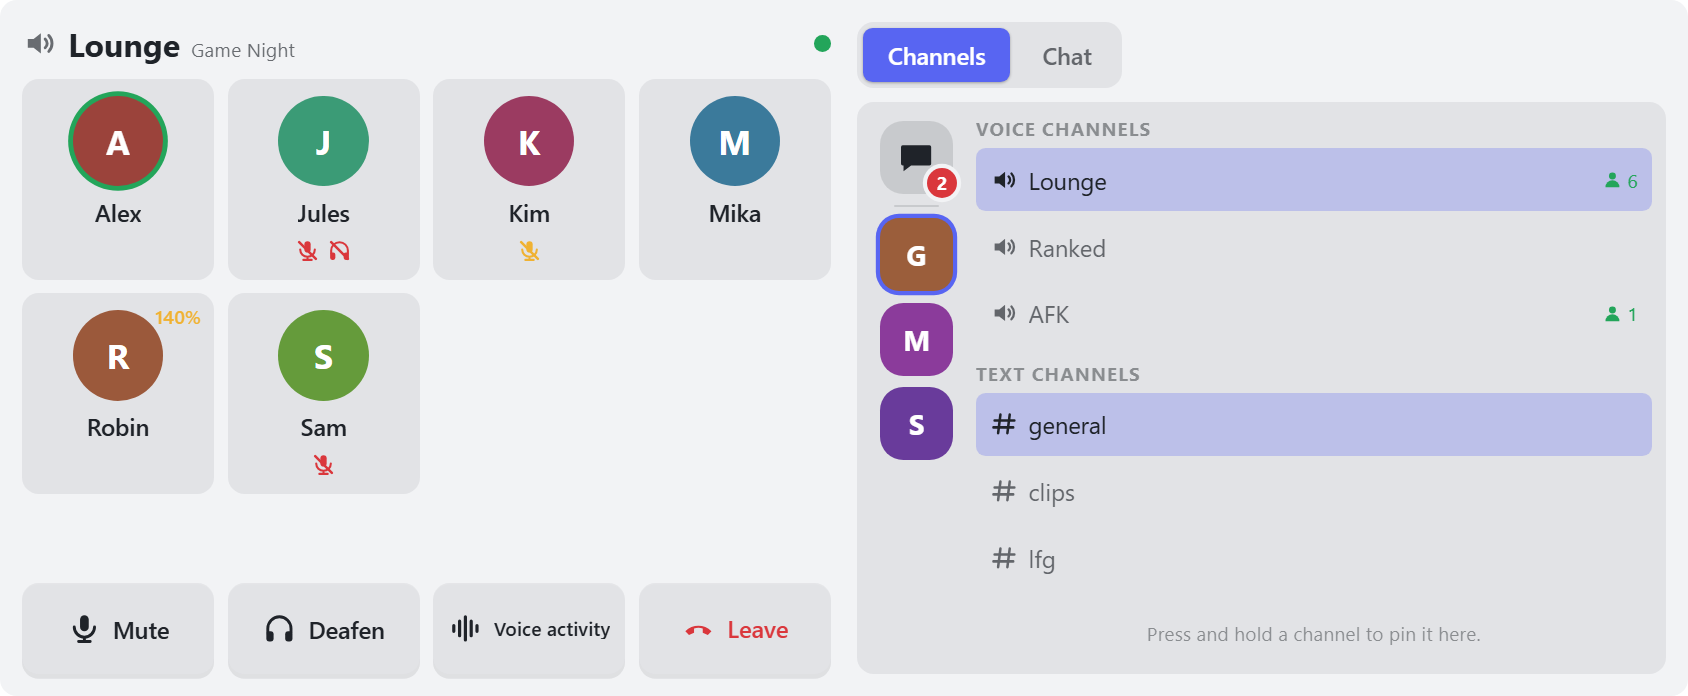
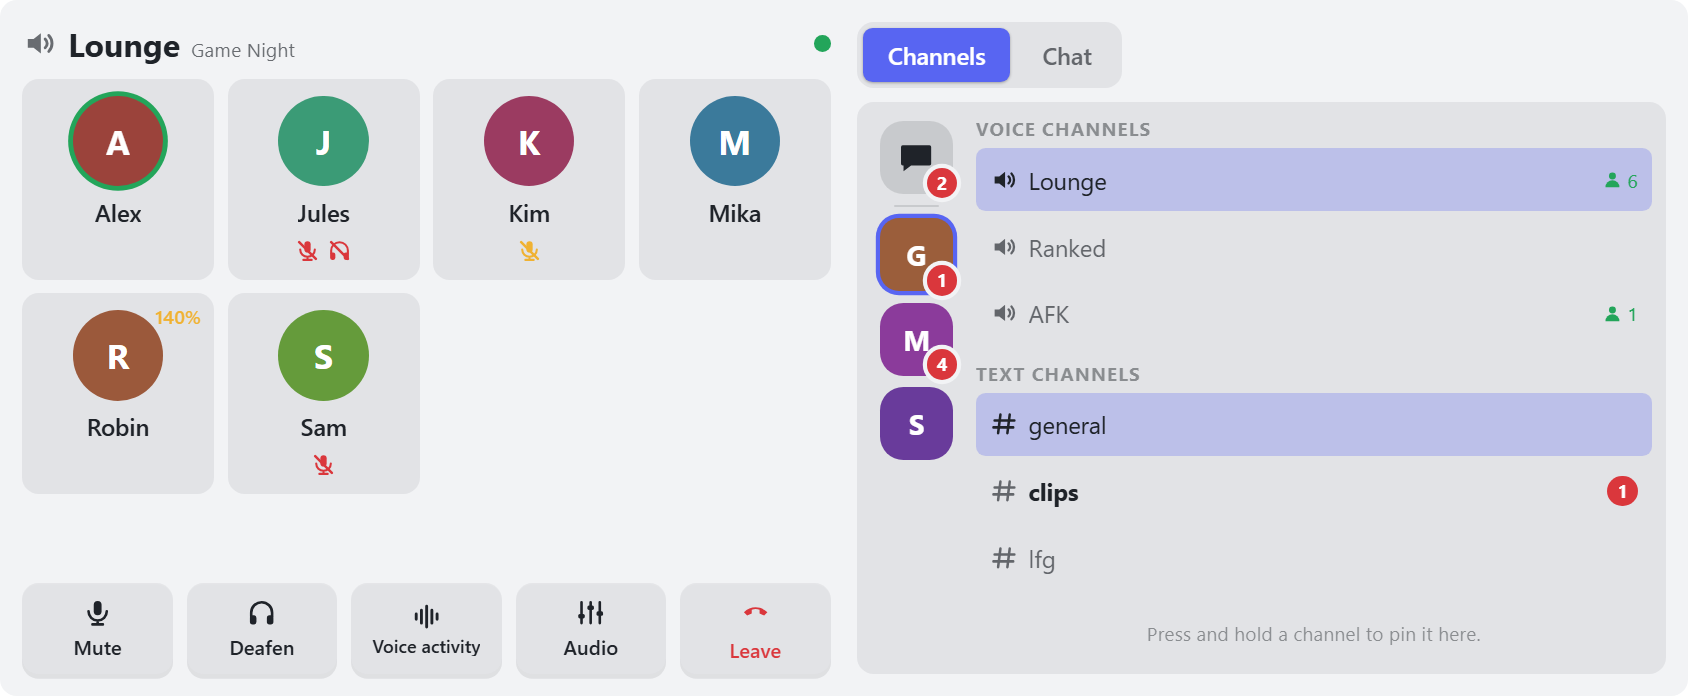
Docs and screenshots for 0.9.4
New screenshots with the Audio button, unread badges and the audio
devices window; README feature table and limits, privacy notes for
server order, unread counts and the page shortcut, protocol in DESIGN.
The screenshot script now prefers headless Chrome.

diff --git a/widget/scripts/app.js b/widget/scripts/app.js
@@ -181,7 +181,10 @@ function applyDemoOptions() {
   applyStyles();
   if (q.get('guild') === 'dms') saveStore({ guildId: '@dms' });
   var popup = q.get('popup');
-  if (popup) {
+  if (popup === 'audio') {
+    if (q.get('side')) AudioUi.side = q.get('side');
+    setTimeout(openAudio, 50);
+  } else if (popup) {
     setTimeout(function () {
       var m = app.data.voice.members.filter(function (x) { return x.name === popup; })[0];
       if (m) openPopup(m.id);

diff --git a/PRIVACY.md b/PRIVACY.md
@@ -24,14 +24,16 @@ Sonst nichts: keine Telemetrie, keine Analyse, keine Absturzberichte, keine Werb
 | Was | Wo | Wie lange |
 |---|---|---|
 | Deine Discord-Anmeldung (Tokens) | `%APPDATA%\VoicedeckEdge\tokens.bin`, mit Windows verschlüsselt (nur für dein Windows-Konto lesbar) | bis „Abmelden und alle Daten löschen“ oder Deinstallation |
-| Client-ID deiner Discord-App, Einstellungen | `%APPDATA%\VoicedeckEdge\settings.json` | bis Löschen/Deinstallation |
+| Client-ID deiner Discord-App, Einstellungen, zuletzt gestartete Version (damit der Hub nach einem Update den Assistenten öffnet) | `%APPDATA%\VoicedeckEdge\settings.json` | bis Löschen/Deinstallation |
 | Gekoppelte Widgets | `%APPDATA%\VoicedeckEdge\pairings.json` – nur ein Prüfwert (Hash), nie der Schlüssel selbst | bis du die Kopplung aufhebst |
 | Technisches Protokoll | `%LOCALAPPDATA%\VoicedeckEdge\logs\` – ohne Namen, IDs, Nachrichten oder Tokens | höchstens 7 Tage |
-| Im Widget (iCUE) | Kopplungsschlüssel, angeheftete Kanäle (ID, Name), zuletzt gewählter Server und Chat | bis du das Widget entfernst |
+| Im Widget (iCUE) | Kopplungsschlüssel, angeheftete Kanäle (ID, Name), deine Server-Reihenfolge (nur Server-IDs), zuletzt gewählter Server und Chat | bis du das Widget entfernst |
 
 **Nie gespeichert** werden Chat-Nachrichten, Direktnachrichten, Bilder, Namen und Profilbilder anderer Personen oder Teilnehmerlisten. Sie liegen nur im Arbeitsspeicher, solange sie angezeigt werden.
 
-**Direktnachrichten:** Damit private Unterhaltungen im Widget erscheinen können, liest der Hub deine Discord-**Benachrichtigungen** (Berechtigung „Benachrichtigungen lesen“). Er beachtet davon nur Direktnachrichten und merkt sich die Unterhaltungen ausschließlich im Arbeitsspeicher – nach einem Neustart von Hub oder Discord ist die Liste leer.
+**Direktnachrichten und rote Zahlen:** Damit private Unterhaltungen und neue Server-Nachrichten im Widget erscheinen können, liest der Hub deine Discord-**Benachrichtigungen** (Berechtigung „Benachrichtigungen lesen“). Er merkt sich davon nur die Unterhaltungen (Name, Bild, Zeit) und die Anzahl neuer Nachrichten pro Kanal – ausschließlich im Arbeitsspeicher. Nach einem Neustart von Hub oder Discord ist beides leer.
+
+**Seiten wechseln per Wischen:** Wischst du auf dem Widget waagerecht, drückt der Hub für dich das iCUE-Tastenkürzel Strg + Alt + Umschalt + Pfeil links/rechts. Andere Tasten drückt er nie, und nur nach einem Wischen auf dem Widget. Abschaltbar in den Widget-Einstellungen.
 
 ### Deine Kontrolle
 
@@ -67,14 +69,16 @@ Nothing else: no telemetry, no analytics, no crash reports, no ads, no tracking.
 | What | Where | How long |
 |---|---|---|
 | Your Discord sign-in (tokens) | `%APPDATA%\VoicedeckEdge\tokens.bin`, encrypted by Windows (readable only by your Windows account) | until "Sign out and delete all data" or uninstall |
-| Client ID of your Discord app, settings | `%APPDATA%\VoicedeckEdge\settings.json` | until deleted/uninstalled |
+| Client ID of your Discord app, settings, last started version (so the hub can open the assistant after an update) | `%APPDATA%\VoicedeckEdge\settings.json` | until deleted/uninstalled |
 | Paired widgets | `%APPDATA%\VoicedeckEdge\pairings.json` – only a hash, never the key itself | until you unpair |
 | Technical log | `%LOCALAPPDATA%\VoicedeckEdge\logs\` – no names, IDs, messages or tokens | at most 7 days |
-| Inside the widget (iCUE) | pairing key, pinned channels (ID, name), last server and chat | until you remove the widget |
+| Inside the widget (iCUE) | pairing key, pinned channels (ID, name), your server order (server IDs only), last server and chat | until you remove the widget |
 
 **Never stored:** chat messages, direct messages, images, other people's names and avatars, member lists. They exist only in memory while shown.
 
-**Direct messages:** so that private conversations can appear in the widget, the hub reads your Discord **notifications** (permission "read notifications"). It only looks at direct messages and keeps the conversation list in memory only – after restarting the hub or Discord the list is empty.
+**Direct messages and red numbers:** so that private conversations and new server messages can appear in the widget, the hub reads your Discord **notifications** (permission "read notifications"). Of these it keeps only the conversations (name, picture, time) and the number of new messages per channel – in memory only. After restarting the hub or Discord both are empty.
+
+**Swiping to change pages:** when you swipe sideways on the widget, the hub presses iCUE's shortcut Ctrl + Alt + Shift + Left/Right arrow for you. It never presses any other key, and only after a swipe on the widget. Can be switched off in the widget settings.
 
 ### You are in control
 

diff --git a/README.de.md b/README.de.md
@@ -20,7 +20,8 @@ Kostenlos und Open Source. Kein Konto bei uns, keine Server, kein Tracking.
 |---|---|
 | ![Sprachkanal](docs/images/de/m-voice.png) | **Dein Sprachkanal auf einen Blick**<br>Alle im Kanal mit Bild und Namen. Ein grüner Ring zeigt, wer spricht, rote Symbole zeigen, wer stumm oder taub ist. |
 | ![Lautstärke pro Person](docs/images/de/m-volume.png) | **Lautstärke für jede Person**<br>Tippe auf jemanden, um ihn lauter oder leiser zu machen (0–200 %) oder nur für dich stummzuschalten. Bei 100 % rastet der Regler ein. |
-| ![Direktnachrichten](docs/images/de/m-direct.png) | **Server, Kanäle und Direktnachrichten**<br>Deine Server in einer Spalte wie in Discord. Tippe auf einen Sprachkanal zum Beitreten, auf einen Textkanal zum Lesen. Neue Direktnachrichten erscheinen mit rotem Zähler. |
+| ![Audiogeräte](docs/images/de/m-audio.png) | **Mikrofon und Kopfhörer**<br>Der Knopf *Audio* wechselt Discords Eingabe- und Ausgabegerät und stellt ihre Lautstärke ein – praktisch, wenn du zwischen Headset und Lautsprechern wechselst. |
+| ![Direktnachrichten](docs/images/de/m-direct.png) | **Server, Kanäle und Direktnachrichten**<br>Deine Server in einer Spalte wie in Discord – gedrückt halten zum Verschieben. Tippe auf einen Sprachkanal zum Beitreten, auf einen Textkanal zum Lesen. Rote Zahlen zeigen neue Nachrichten an Servern, Kanälen und Direktnachrichten. |
 | ![Privatmodus](docs/images/de/m-private.png) | **Privatmodus fürs Streamen**<br>Ein Tipp auf das Auge versteckt Chat-Texte, Bilder und Emojis, bis du auf den Chat tippst. |
 
 **Außerdem dabei**
@@ -97,6 +98,8 @@ Tray-Symbol → **Abmelden und alle Daten löschen** entfernt jederzeit alles. D
 - Push to Talk: Das Widget schaltet den Modus um, die Taste drücken kann es nicht.
 - Kanal-Kategorien können nicht angezeigt werden (Discord gibt sie an lokale Apps nicht heraus).
 - Direktnachrichten erscheinen, sobald dir jemand schreibt, während der Hub läuft; nach einem Neustart ist die Liste leer.
+- Deine Server-Reihenfolge wird nicht aus Discord übernommen (Discord gibt sie nicht heraus) – stell sie einmal im Widget ein.
+- Rote Zahlen zählen Nachrichten, für die dich Discord benachrichtigt, solange der Hub läuft. Was du in Discord selbst liest, bleibt gezählt, bis du den Kanal im Widget öffnest.
 
 ## Hilfe & Rückmeldung
 

diff --git a/README.md b/README.md
@@ -20,7 +20,8 @@ Free and open source. No account with us, no servers, no tracking.
 |---|---|
 | ![Voice channel](docs/images/en/m-voice.png) | **Your voice channel at a glance**<br>Everyone in the channel with avatar and name. A green ring shows who is speaking, red icons show who is muted or deafened. |
 | ![Volume per person](docs/images/en/m-volume.png) | **Volume for each person**<br>Tap someone to make them louder or quieter (0–200 %) or mute them just for you. The slider clicks into place at 100 %. |
-| ![Direct messages](docs/images/en/m-direct.png) | **Servers, channels and direct messages**<br>Your servers in a column like in Discord. Tap a voice channel to join, a text channel to read it. New direct messages show up with a red counter. |
+| ![Audio devices](docs/images/en/m-audio.png) | **Microphone and headphones**<br>The *Audio* button switches Discord's input and output device and sets their volume – handy when you swap between headset and speakers. |
+| ![Direct messages](docs/images/en/m-direct.png) | **Servers, channels and direct messages**<br>Your servers in a column like in Discord – press and hold one to move it. Tap a voice channel to join, a text channel to read it. Red numbers show new messages on servers, channels and direct messages. |
 | ![Private mode](docs/images/en/m-private.png) | **Private mode for streaming**<br>One tap on the eye button hides chat text, pictures and emojis until you tap the chat. |
 
 **Also included**
@@ -97,6 +98,8 @@ Tray icon → **Sign out and delete all data** removes everything at any time. D
 - Push to talk: the widget switches the mode; it can't press the key for you.
 - Channel categories can't be shown (Discord doesn't provide them to local apps).
 - Direct messages appear once someone writes to you while the hub runs; the list is not kept after a restart.
+- Your server order isn't taken over from Discord (Discord keeps it private) – arrange it once in the widget.
+- Red numbers count messages Discord notifies you about while the hub runs. Messages you read in Discord itself stay counted until you open the channel in the widget.
 
 ## Help & feedback
 

diff --git a/docs/DESIGN.md b/docs/DESIGN.md
@@ -80,11 +80,15 @@ Jede Webseite im Browser könnte `ws://localhost:47820` ansprechen. Darum:
 { "op": "voice.leave", "id": 4 } | { "op": "voice.join", "channelId": "…", "id": 5 }
 { "op": "user.setVolume", "userId": "…", "volume": 140, "id": 6 } | { "op": "user.setMute", "userId": "…", "mute": true } | { "op": "user.reset", "userId": "…" }
 { "op": "guilds.list" } | { "op": "channels.list", "guildId": "…" } | { "op": "chat.open", "channelId": "…" } | { "op": "chat.close" }
+{ "op": "audio.setInput", "deviceId": "…" } | { "op": "audio.setOutput", "deviceId": "…" }      // nur Geräte aus Discords aktueller Liste
+{ "op": "audio.setInputVolume", "volume": 80 } | { "op": "audio.setOutputVolume", "volume": 150 } // Eingang 0–100, Ausgang 0–200
+{ "op": "edge.page", "dir": "next|prev" }                                                       // drückt das iCUE-Kürzel (Wischen)
 
 // Hub → Widget
 { "t": "pair_pending" } → { "t": "paired", "token": "…" } | { "t": "pair_denied" }
 { "t": "welcome", "proto": 1, "hubVersion": "0.1.0", "imageBase": "http://localhost:47820", "imageKey": "…" }
-{ "t": "snapshot", "data": { "status", "me", "voice", "settings", "chat" } }   // vollständiger Zustand nach welcome
+{ "t": "snapshot", "data": { "status", "me", "voice", "settings", "chat", "dms", "unread" } }   // vollständiger Zustand nach welcome
+// settings.input/output = { deviceId, volume, devices: [{ id, name }] } · unread = { guilds: {id: n}, channels: {id: n} }
 { "t": "state", "section": "voice", "data": { … } }                            // ganze Sektion bei jeder Änderung
 { "t": "speaking", "userId": "…", "speaking": true }                           // häufig, darum einzeln
 { "t": "result", "id": 6, "ok": true, "data": … } | { "t": "result", "id": 6, "ok": false, "error": "invalid_args" }
